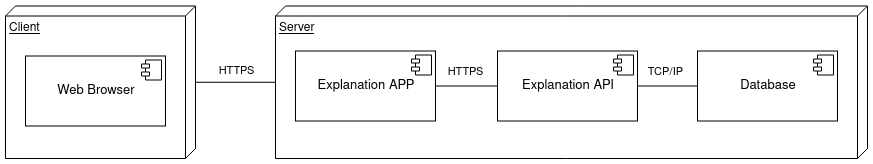
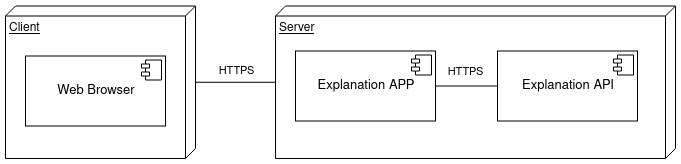
Update report

diff --git a/report/ch5/chapter5.tex b/report/ch5/chapter5.tex
@@ -12,7 +12,7 @@ Lastly, is presented a resume of the implementation which describes in more deta
 \section{Explanation API}
 
 The Explanation API is responsible for generating explanations to a given input string.
-This API was developed using Flask, a lightweight open-source Python web framework, which is explained in more detail in Chapter~\ref{chap:Chapter2}.
+This API was developed using Flask, a lightweight open-source Python web framework, which was explained in more detail in Chapter~\ref{chap:Chapter2}.
 
 In order to perform its main task, this API has available two approaches that can be used individually or to complement each other.
 
@@ -62,7 +62,7 @@ This process will return a list of expressions per context per explanation.
 
 (RESULT CODE) %TODO
 
-The main advantage of this approach are the following:
+The main advantages of this approach are the following:
 \begin{itemize}
         \item Obtaining an initial explanation is very fast since it only extracts the targeted information of a specified page.
 \end{itemize}
@@ -124,16 +124,17 @@ The similarity is calculated using the cosine similarity using the following for
 \label{similarity}
 \end{equation}
 
-The main advantage of this approach are the following:
+The main advantages of this approach are the following:
 \begin{itemize}
-        \item
+        \item It is capable of finding much more results.
+        \item It can be used for any initial page without needing especial configurations.
 \end{itemize}
 
 In regards to disadvantages:
 \begin{itemize}
-        \item This approach is slower than the first one.
+        \item It is slower than the first one.
         \item The time it takes to generate an explanation depends on the amount of pages it was to crawl.
-        \item
+        \item It is not capable of clearly distinguish different contexts if used to generate the initial explanation.
 \end{itemize}
 
 \subsection{LGP Readability Formula}
@@ -196,7 +197,6 @@ In order to calculate the score of an entire sentence, the sum of the scores of 
 This formula is used to calculate the readability score of the generated explanations.
 In the Table~\ref{table:sentences} is shown an example of some sentences and their readability score.
 
-%TODO fix table
 \begin{table}[H]
     \centering
     \caption{Sentence readability scores.}
@@ -204,55 +204,126 @@ In the Table~\ref{table:sentences} is shown an example of some sentences and the
     \begin{tabular}{l|l}
         {\bfseries Sentence} & {\bfseries Score} \\
         \hline
-        s1 & 1  \\
+        Veículo de rodas para transporte de pessoas ou mercadorias & 2.712  \\
         \hline
-        s2 & 2  \\
+        Fazer passar ligeiramente & 3.120  \\
         \hline
-        s3 & 2 \\
+        Abertura por onde entra a luz nos camarotes dos navios & 3.672 \\
         \hline
-        s4 & 4 \\
+        Lugar considerado seguro para nele algo ou alguém se refugiar & 7.010 \\
         \hline
-        s5 & 7 \\
+        Parte de um todo & 8.138 \\
     \end{tabular}
 \end{table}
 
 \section{Web Application}
 
-A user interacts with the web application that was developed in React, an open-source JavaScript framework for building user interfaces.
-Here, the user can search for the desired concept, as well as changing the page language.
-This is also the place where the generated explanations are shown in plain text and in \gls{LGP} by the avatar.
-After each explanation, it is also presented their \gls{LGP} Readability Score, which is presented more in depth in the following subsection, as well as feedback options.
-If one of the presented explanations is not acceptable, it is possible for the user to request a new one.
+The Web Application is responsible for providing a user interface to interact with the Explanation API.
+It was developed using React, an open source JavaScript framework, which was explained in more detail in Chapter~\ref{chap:Chapter2}.
+The skeleton of this singe page application was created using the Create React App\footnote{https://github.com/facebook/create-react-app} toolchain.
+
+One of the most useful features of the React framework is the utilization of components, like so the user interface of this application is composed by five different components.
 
 \begin{itemize}
-    \item \textbf{App}
-    \item \textbf{Avatar}
-    \item \textbf{Display}
-    \item \textbf{Navbar}
-    \item \textbf{Search}
+    \item \textbf{App} - This is the main component of the application.
+        It is responsible for setting the position and order in which the other components are to be displayed.
+    \item \textbf{Avatar} - This component function was to take the plain text and display the avatar performing the translation, but since it was not integrated it only displays a mock image.
+    \item \textbf{Display} - This component is responsible for displaying the results provided by the Explanation API.
+        A result is composed by: the explanation in plain text, a button to display the avatar component, the calculated readability score and two buttons to provide feedback to the generated explanation.
+        The negative feedback button displays the user a option to generate a new explanation.
+    \item \textbf{Navbar} - This component presents the title of the application and the project logo, as well as the language menu.
+        This language menu allows the user to easily change the application language.
+        The language configurations were implemented using react-intl\footnote{https://www.npmjs.com/package/react-intl} and JSON files.
+        Each JSON file contains the application text variables followed by the text to be displayed in that language.
+    \item \textbf{Search} - This component provides a search bar that allows the user to input a string that is sent to the Explanation API.
 \end{itemize}
 
-\dots %TODO Ideoma
+The other two key features of the React framework, JSX and VirtualDOM, were also very useful when creating a component.
+The following image shows the source code of the X component were this features were used. %TODO FIX X
 
-\dots %TODO mencionar que foi estruturado para ser responsive apesar de não ser necessariamete um requisito
+(COMPONENT X SOURCE CODE) %TODO
 
-\section{Hosting}
+The visual aspect of each components was based in components provided by the antd\footnote{https://ant.design/docs/react/introduce} library, and were altered to meet the needs of the targeted audience.
+All of the components were also structured to be responsive even though this was not one of the requirements.
+The following image shows the user interface were is easy to identify each component.
 
-reverse proxy
+(WEBAPP IMAGE) %TODO
 
-pm2 react service
+\section{Deployment}
 
-systemctl flask service
+This section presents all the tasks performed during the deployment of the project.
 
-certbot https
+As initially expected, the DEI-ISEP provided a linux server running the Ubuntu distribution for hosting this project.
+This server was configured with all the technologies and framework used during development that were required to run the Web Application and the Explanation API, such as Python 3, Node.js, React, NLTK, etc.
+In order for the solution to always available it was required extra configuration.
 
-\dots %TODO
+PM2\footnote{https://pm2.keymetrics.io/} is an open source daemon process manager for Node.js applications.
+This was the solution used to keep the Web Application running in the server.
 
-\section{Resume}
+\begin{figure}[H]
+\centering
+\includegraphics[width=\textwidth,keepaspectratio]{ch5/assets/pm2ls.png}
+\caption[PM2 Managed Application List]{PM2 Managed Application List}
+\label{fig:pm2}
+\end{figure}
 
-\dots %TODO
+The Figure~\ref{fig:pm2} show the list of managed application and some of their details.
+EAC is the name given to the Web Application and in the PM2 configuration.
+The figure also shows that the application was up for the last 48 days, and that it was automatically restarted 4 times.
+
+In regards to the Explanation API, it was created a Systemd service.
+Systemd is a initialization system and service manager native to many Linux distributions such as Ubuntu.
+
+\begin{center}
+\begin{minipage}{0.95\linewidth}
+\lstinputlisting [caption=Explanation Systemd Service.,
+label=lst:explanation-service]
+{ch5/assets/explanation.service}
+\end{minipage}
+\end{center}
+
+In the Listing~\ref{lst:explanation-service} is shown the configuration required to create the service for the Explanation API.
+With this service Systemd will manage the API, and will automatically restart it if goes down.
+
+To allow both the Web Application and the Explanation API to be accessible through HTTP it was required to set up a reverse proxy using nginx\footnote{https://nginx.org/en/}.
+A reverse proxy is an server sided intermediary server that forwards a user request to the available web servers.
+
+\begin{center}
+\begin{minipage}{0.95\linewidth}
+\lstinputlisting [caption=Reverse Proxy Configuration.,
+label=lst:reverse-proxy]
+{ch5/assets/reverse-proxy.conf}
+\end{minipage}
+\end{center}
+
+As shown in the Listing~\ref{lst:reverse-proxy}, the requests made to the "search" endpoint are forward to the Explanation API while the requests to the base endpoint are forward to the Web Application.
+
+In order to protect the integrity and improve the security of this application the HTTPS protocol was enable in the reverse proxy server.
+This was accomplish by using Certbot\footnote{https://certbot.eff.org/} which automatically enables HTTPS in a server running in the HTTP port by deploying Let's Encrypt\footnote{https://letsencrypt.org/} certificates.
+
+\begin{center}
+\begin{minipage}{0.95\linewidth}
+\lstinputlisting [caption=Reverse Proxy Configuration after Certbot.,
+label=lst:reverse-proxy-certbot]
+{ch5/assets/reverse-proxy-https.conf}
+\end{minipage}
+\end{center}
+
+The Listing~\ref{lst:reverse-proxy-certbot} shows an excerpt of the changes made by Cerbot to enable the HTTPS protocol.
+
+\section{Design Changes}
+
+This section will present how the original design changed during the implementation.
+The integration with the avatar API and Database was not possible to be implemented, this had a great impact on how the solution ended up being implemented.
+Without this two components, the "US03: Display sign language translation" was able to be implemented.
+
+The developed \gls{LGP} formula also depended on the Avatar Database to access the sign data, this was able to still be implemented by using a local database.
+
+The design of the "US04: Change language" had no alteration made during the implemented thus it wont be featured in this section.
 
 \subsection{Logic view}
+
+The changes made to the component diagram presented in Chapter~\ref{chap:Chapter4} are shown in the following diagram.
 
 \begin{figure}[H]
 \centering
@@ -261,24 +332,39 @@ certbot https
 \label{fig:componentImp}
 \end{figure}
 
-\dots
+Shown in Figure~\ref{fig:componentImp} is the component diagram of the solution implemented.
+Without the avatar components, there was still a need for a database since the \gls{LGP} formula required sign data to perform the calculation of the readability of each explanation, and this score was a key factor.
+This database was seeded with the sign data from the Portuguese table of the Avatar Database.
 
 \subsection{Use cases}
 
-In this section the use cases are presented to better understand how the designed requirements were implemented.
-
-\dots %TODO
+In this section the implemented use cases are presented to better understand the changes made and how they impacted the final solution.
 
 \subsubsection{US01: Find explanation}
 
 \begin{figure}[H]
 \centering
-\includegraphics[width=\textwidth,keepaspectratio]{ch5/assets/US01_SD_Implement.png}
-\caption[Sequence Diagram Implementation US01]{Sequence Diagram - Implementation US01}
-\label{fig:uc01Imp}
+\includegraphics[scale=0.45]{ch5/assets/US01_SD_Implement_Ap1.png}
+\caption[Sequence Diagram US01 First Approach]{Sequence Diagram - US01 First Approach}
+\label{fig:uc01Imp1}
 \end{figure}
 
-\dots %TODO
+In the sequence diagram of Figure~\ref{fig:uc01Imp1} is shown the first approach to obtain an explained previously explained.
+This is very different from the diagram presented in the previous chapter since it only resorts to web scrapping to generate explanations.
+Also, instead of the design verification it will calculate the readability score of each expression.
+For this calculation it queries the local Database file instead of querying the Avatar Database like it was initially designed.
+This score is used to sort the explanations is a crescent order.
+
+\begin{figure}[H]
+\centering
+\includegraphics[width=\textwidth,keepaspectratio]{ch5/assets/US01_SD_Implement_Ap2.png}
+\caption[Sequence Diagram US01 Second Approach]{Sequence Diagram - US01 Second Approach}
+\label{fig:uc01Imp2}
+\end{figure}
+
+The sequence diagram displayed in Figure~\ref{fig:uc01Imp2} describes the second approach previously explained.
+This is very similar to the diagram presented in Chapter~\ref{chap:Chapter4}.
+The main difference is that, like in the first approach, instead of performing a verification to the generated explanation it calculates the readability score and use it to sort the explanations.
 
 \subsubsection{US02: Obtain alternative explanation}
 
@@ -289,24 +375,14 @@ In this section the use cases are presented to better understand how the designe
 \label{fig:uc02Imp}
 \end{figure}
 
-\dots %TODO
-
-\subsubsection{US04: Change language}
-
-\begin{figure}[H]
-\centering
-\includegraphics[scale=0.45]{ch5/assets/US04_SD_Implement.png}
-\caption[Sequence Diagram Implementation US04]{Sequence Diagram - Implementation US04}
-\label{fig:uc04Imp}
-\end{figure}
-
-\dots %TODO
-
-\subsection{Non-Functional Requirements}
-
-\dots %TODO
+In Figure~\ref{fig:uc02Imp} sequence diagram is shown the implemented process for obtaining a new explanation.
+This is also very similar to the diagram presented in Chapter~\ref{chap:Chapter4}.
+The main difference is that it requests the text summarization system to sort the new explanation based on similarity as previously mentioned.
+No note that to generate new explanation, this will always use the second approach.
 
 \subsection{Deployment view}
+
+The changes made to the deployment diagram presented in Chapter~\ref{chap:Chapter4} are shown in the following diagram.
 
 \begin{figure}[H]
 \centering
@@ -315,4 +391,5 @@ In this section the use cases are presented to better understand how the designe
 \label{fig:deployImp}
 \end{figure}
 
-\dots %TODO
+Shown in Figure~\ref{fig:deployImp} is the deployment diagram of the implemented solution.
+As approached throughout this section there is no integration with the Avatar technology, therefor the only change is that there is no interaction with the gilt server.

diff --git a/report/ch7/chapter7.tex b/report/ch7/chapter7.tex
@@ -1,4 +1,22 @@
 % Chapter 7
 
 \chapter{Conclusion} % Main chapter title
-\label{chap:Chapter7} 
+\label{chap:Chapter7}
+
+\dots %TODO
+
+\section{Accomplished Goals}
+
+\dots %TODO
+
+\section{Limitations and Future Work}
+
+\dots %TODO
+
+Improve the seccond approach by:
+storing already visit paged to reduce the time it takes
+implemente a way to better identify differente contexts
+
+\section{Final Appreciation}
+
+\dots %TODO
